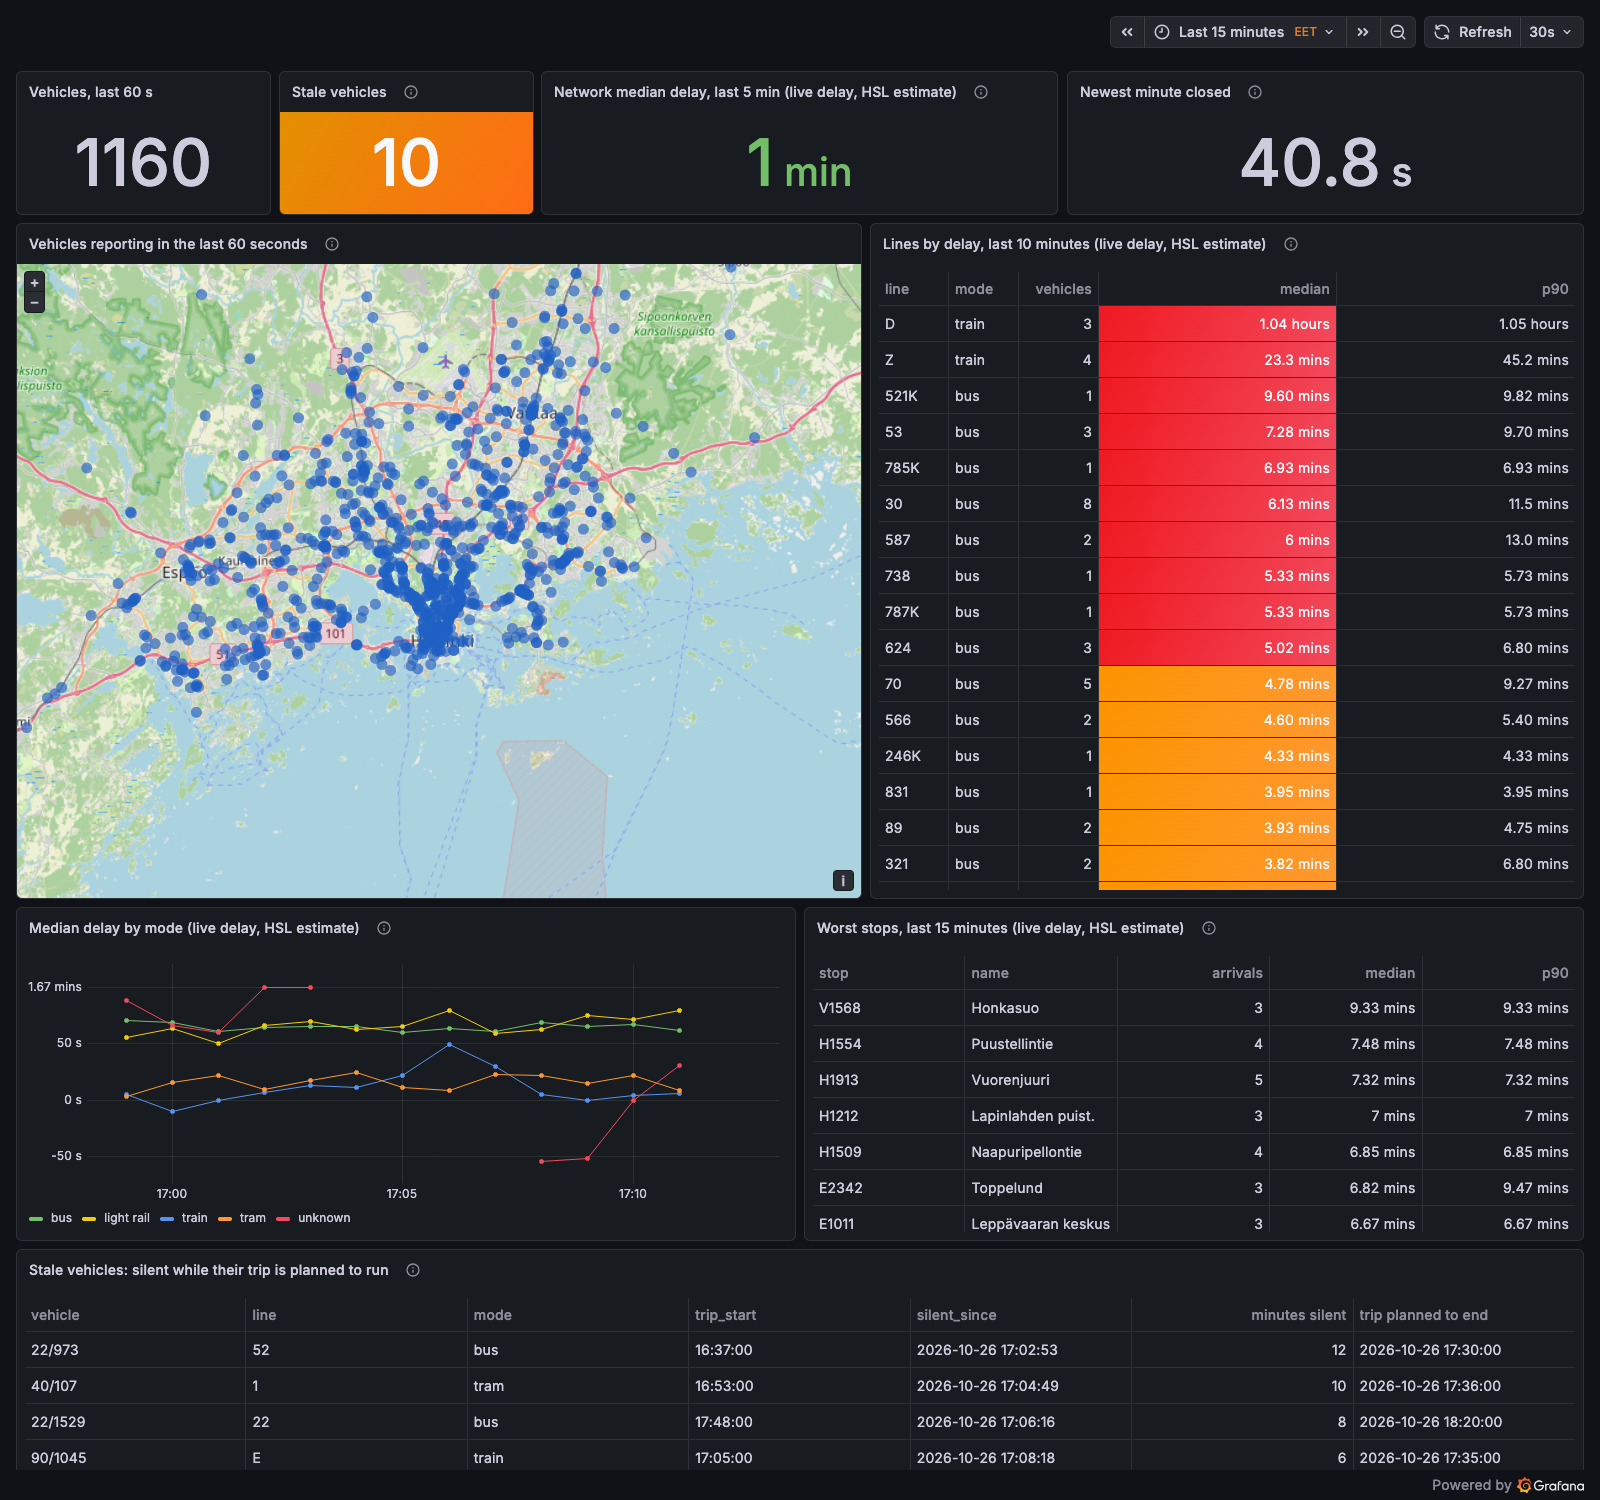
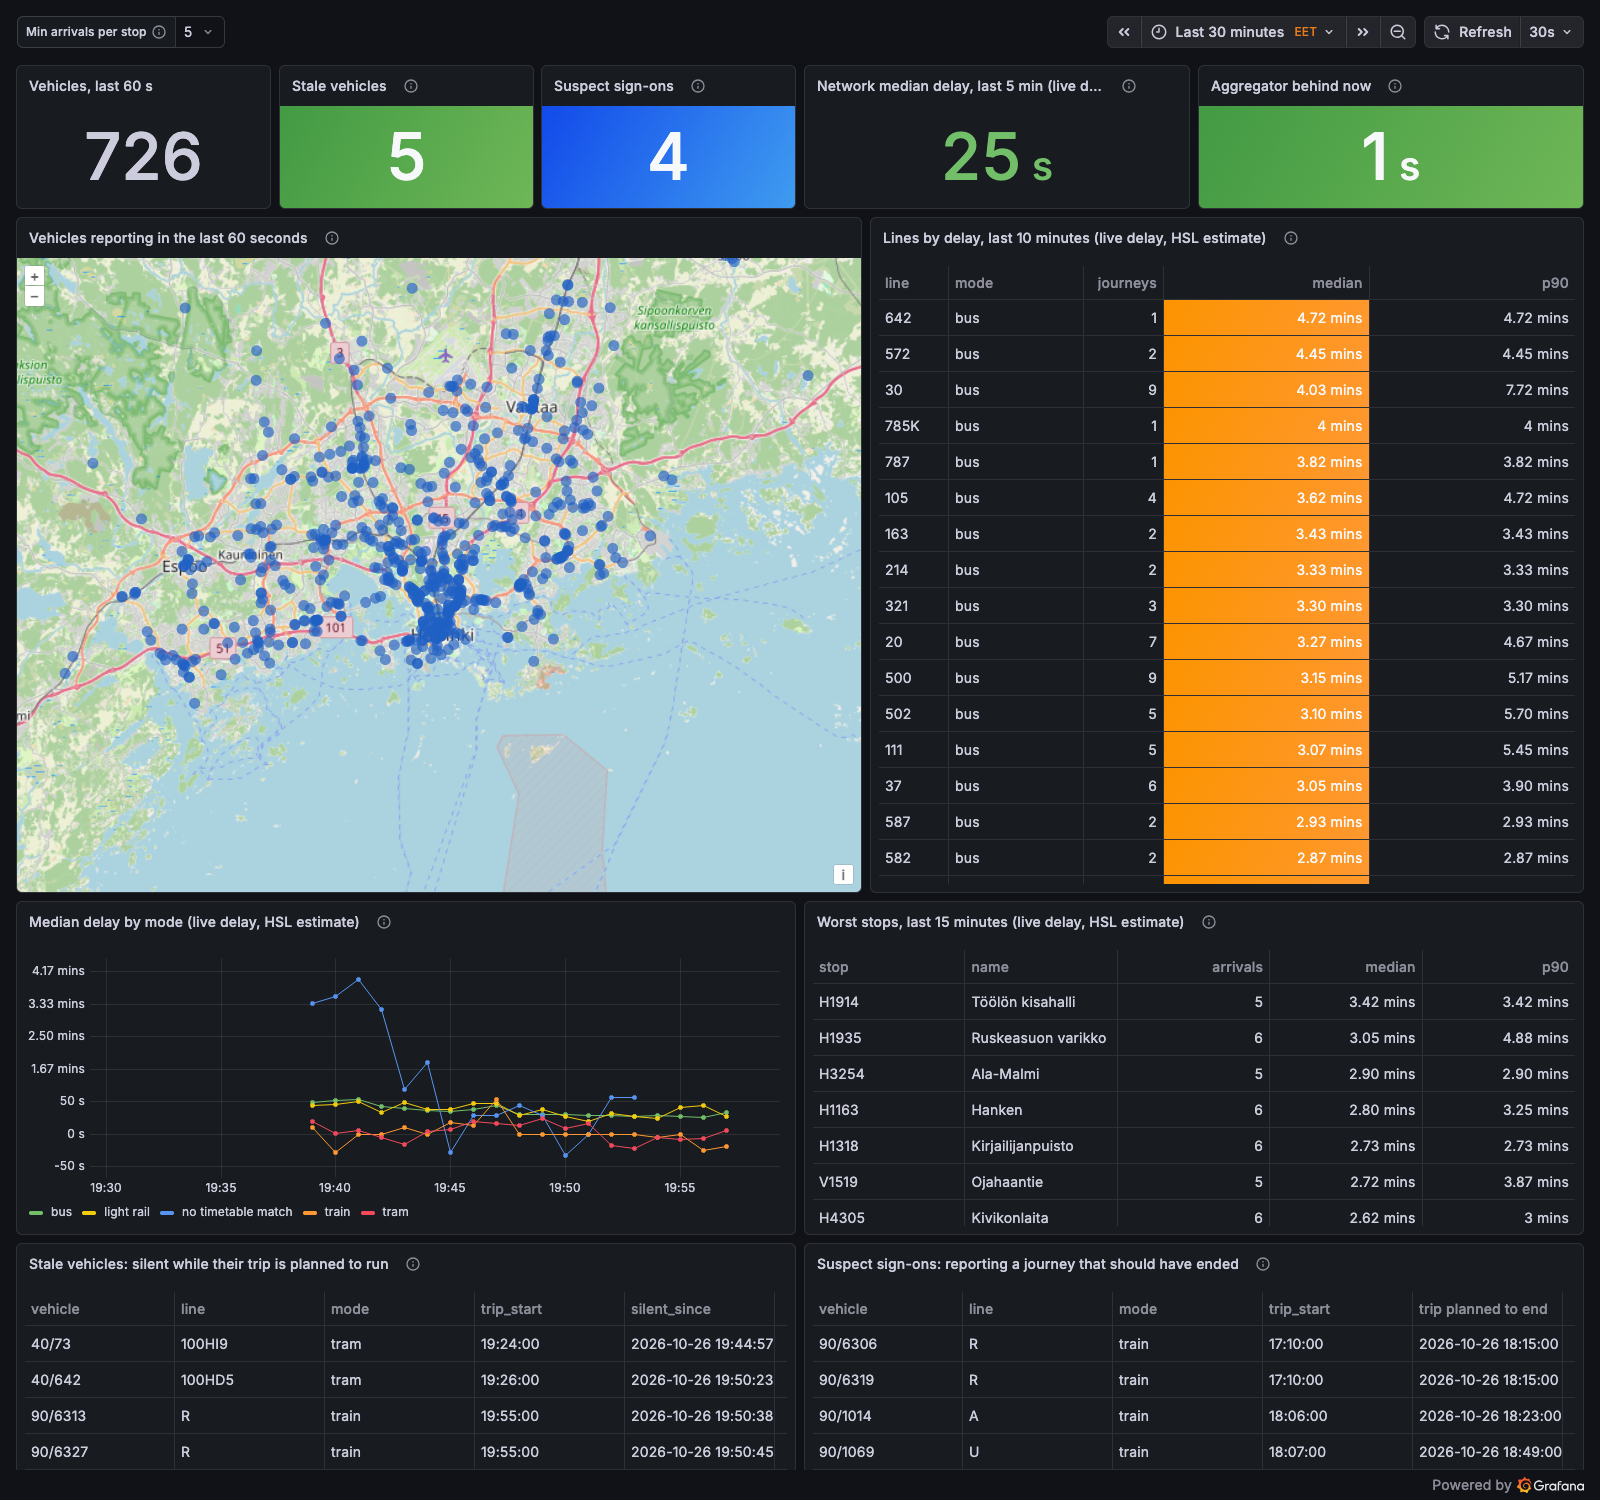
Update the dashboard screenshots

diff --git a/docs/design_monitoring.md b/docs/design_monitoring.md
@@ -66,7 +66,7 @@ The lag rule is evaluated per consumer group, so the sink and the aggregator are
 
 ## Observed while building the dashboards
 
-The screenshots are from a live run on Sunday evening, 25 October, with the producer, sink and aggregator reading HSL's feed for about 25 minutes.
+The screenshots above are from a live run on Monday evening, 26 October, between 19:40 and 20:00 Helsinki time; *Punctuality* shows that day as far as it was recorded. In the *Pipeline health* screenshot, the lag of up to 140,000 messages and the stored latency of up to four minutes between 19:40 and 19:52 were measured under host throttling (macOS limited the CPU to 20% at the time): the consumers catching up after their start. They are not performance results. The observations below come from that run and from one on Sunday evening, 25 October.
 
 - **A slow host shows up as lag.** Between 21:02 and 21:10 Helsinki time the development laptop was overloaded (load average up to 81, CPU limited to 74%). Under host throttling, decoding a batch of 5,000 messages took 3 seconds instead of 260 ms, and the sink fell up to 59,000 messages behind; these numbers describe the laptop and are not performance results. Once the load dropped it caught up in about a minute, at 85,000 messages that minute. The bump is visible in the lag and latency panels. The lag rule went to pending at 21:06:30 and back to normal at 21:10:30: four minutes above the threshold, one short of firing.
 - **One vehicle can dominate a line's average.** Commuter train line K led the list with an average of 24 minutes: one train unit stood still while still signed on to its 17:22 journey and reported 3.7 hours of delay. This is why the live panels show the median and p90 instead of the average. The measured delay in the marts is not affected (it uses departures from stops). The median has a limit, seen on Monday 26 October at 17:00 Helsinki time: commuter trains often run as two coupled units, and both units of one line Z train were signed on to the journey an hour earlier while running at full speed. They reported 85 minutes of delay and made up half of the line's vehicles in that direction, so even the median put line Z near the top. Line D above it was a single train of three coupled units on the 16:05 journey, at full speed and reporting 47 minutes of delay, the only vehicles on the line at that moment. A median protects against one wrong vehicle, not against half of a line or a whole one. Two changes followed. Delays are now taken per journey, so the coupled units of a train count once, and a vehicle reporting a journey that should have ended more than 15 minutes earlier is a suspect sign-on whose delay is left out and which is listed separately. Both trains above were caught by that rule.
